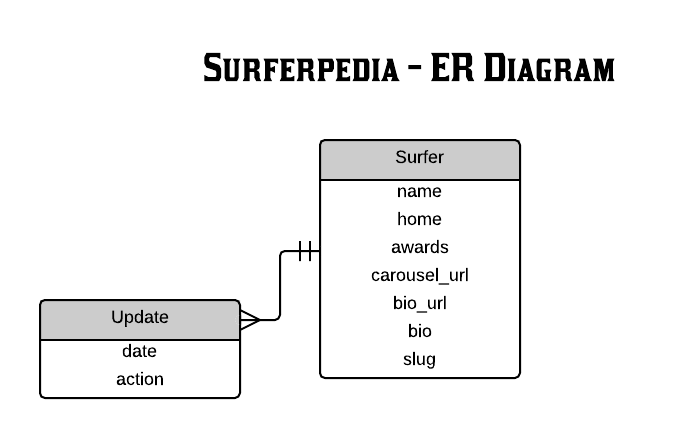
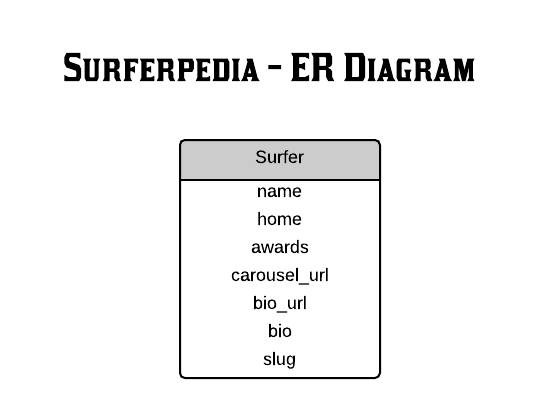
converted to use MySQL DB. Close #3

Changed region(s): [[0.0296, 0.3103, 0.7704, 0.9308], [0.1185, 0.0931, 0.9185, 0.2172], [0.5926, 0.7446, 0.6519, 0.7757]]

diff --git a/app/views/Main.scala.html b/app/views/Main.scala.html
@@ -69,7 +69,6 @@
           </li>
           @if(isLoggedIn) {
           <li class="@("active".when(page == "NewSurfer"))"><a href="@routes.Application.newSurfer()">New Surfer</a></li>
-          <li class="@("active".when(page == "Updates"))"><a href="@routes.Application.getUpdates()">Updates</a></li>
           }
         </ul>
         

diff --git a/app/Global.java b/app/Global.java
@@ -1,5 +1,5 @@
+import models.Surfer;
 import models.SurferDB;
-import models.UpdateDB;
 import models.UserInfoDB;
 import play.Application;
 import play.GlobalSettings;
@@ -8,31 +8,36 @@ import views.formdata.SurferFormData;
 
 /**
  * Provides initialization code for the Surferpedia application.
+ * 
  * @author Dave
- *
+ * 
  */
 public class Global extends GlobalSettings {
-  
+
   /**
    * Initialize the system with some sample contacts.
+   * 
    * @param app The application.
    */
   public void onStart(Application app) {
-    
+
     String adminEmail = Play.application().configuration().getString("admin.email");
-    String adminPassword = Play.application().configuration().getString("admin.password");    
+    String adminPassword = Play.application().configuration().getString("admin.password");
 
     UserInfoDB.addUserInfo(UserInfoDB.ADMIN, adminEmail, adminPassword);
-    
-    if(SurferDB.getSurfers().isEmpty()) {
-      SurferDB.addSurfer(new SurferFormData("adrianodesouza", "Adriano De Souza", "Sau Paulo, Brazil", "Rip Curl Pro Bells Beach (2013), Rip Curl Pro Portugal (2011), Billabong Pro Rio (2011)", "http://tribalpoint.com.br/facecms/uploads/galeria/pj_1304093313.jpg", "http://dawf3zk2mt55y.cloudfront.net/wp-content/uploads/2011/01/Profile-Adriano-Desouza.jpg", "Adriano De Souza rode his first wave at eight years old and eight years later the surf world would take notice of this young, talented surfer at the Billabong ASP World Junior Championships. At the 2004 event, he defeated opponents four years his senior and was named the youngest ASP World Junior Champion ever at 16. Spectators observed his fast, energetic surfing and he quickly became known as one of the most exciting surfers to watch. In 2005, he won the ASP WQS by the widest margin in history. That win took him into his first year on the ASP World Tour where he finished an impressive 18th in the world. Although his style is more conducive to smaller beachbreaks, he is showing his competitors that he can also handle big wave surf, giving his country hope that he has what it takes to transition from a junior champion to something much more. To date, he's one of the most ferocious competitors the sport has ever seen and it shows in the ratings, with consistent top 10 overall finishes since 2008, positioning himself as a serious contender for a world title.", "Male", true, "Regular"));
-      UpdateDB.addUpdate("Create", "Adriano De Souza");
-      
-      SurferDB.addSurfer(new SurferFormData("serenabrooke", "Serena Brooke", "Coolangatta Queensland, Australia", "Billabong Pro Australia, 1995 Women's Rookie of the Year", "http://3.bp.blogspot.com/-ayVU8U4xE_w/T9-cGiDXA3I/AAAAAAAABgo/phpoxj3jlh4/s1600/serenaIndo3.jpg", "http://www.news.saltwater-dreaming.com/modules/xcgal/albums/ASP/serena-brooke.jpg", "Brooke began to compete in amateur competitions in 1990 where she was crowned the Queensland amateur surfing title as well as the Australian National Title. Following her graduation from high school in 1995 she entered the pro ranks and finished her rookie season with a #13 overall ranking on the woman's tour. She was named the 1995 Women's Rookie of the Year. Among her notable accomplishments was winning the Billabong Pro Australia title and achieving a temporary #1 overall ranking in 2001. She would finish with #2 ranking twice on the World Championship Tour (WCT). Serena Brooke is one of the most marketable athletes in woman's surfing having garnered numerous sponsorships including Angel Eyewear and Bud Light. In 2001 she starred in the surfing documentary 7 Girls, and has also starred in numerous surfing videos and occasionally holds surfing camps for children looking to learn how to surf. In 2001, she established the Serena Brooke Charity Foundation. The foundation, which was created in Huntington Beach, California, helps raise money for the Orange County Child Abuse Prevention Center, CSP Youth Centers, Breast Cancer Research, and the Surfrider Foundation among others. The highlight of the year for the foundation is the Serena Brooke Charity Day held in Huntington Beach.", "Female", true, "Goofy"));
-      UpdateDB.addUpdate("Create", "Serena Brooke");
-      
-      SurferDB.addSurfer(new SurferFormData("elliotivarra", "Elliot Ivarra", "Saint Barthelemy", "Quiksilver King of the Groms", "http://farm9.staticflickr.com/8177/8071333879_f8f9567017_b.jpg", "http://static.quiksilver-europe.com/www/quiksilverlive.com/html/upload/kotg2012/riders/__ID-33--5-elliotivarra.jpg", "Elliot Ivarra, 16, was born in Saint Martin, but lives in Saint Barthelemy Island. French surfer Elliot Ivarra won the European final of the Quiksilver King of the Groms in 3 feet fun waves at Ericeira, Portugal. The young french surfer had won his ticket for the Quiskslver King Of the Groms Euro Final thanks to his first place in trials yesterday. This place allowed him to compete in the main event. In Ericeira, the Frenchman ruled this final heat of competition with several backside tricks scoring to fun waves 5.83 pts then a last one 7.43 pts for a final score of 13.50 pts. His domination upon Europe's best 16 and under surfers was unquestionable even if the young French kid Nomme Mignot battled hard for the crown until the very last seconds of the heat. As he was leading the final, Nomme, from Surfing French Team, let Elliot the victory. None the less, both of them will fly to France to take part to the Quiksilver King of the Groms International final to be held during the Quiksilver Pro France - an ASP World Tour event- (From September 27th to October 8th) gathering the world's best surfers on the Landes coast. An extraordinary experience for these two groms.", "Grom", true, "Goofy"));
-      UpdateDB.addUpdate("Create", "Elliot Ivarra");
+
+    if (SurferDB.getSurfers().isEmpty()) {
+      Surfer surfer =
+          SurferDB
+              .addSurfer(new SurferFormData(
+                  "adrianodesouza",
+                  "Adriano De Souza",
+                  "Sau Paulo, Brazil",
+                  "Rip Curl Pro Bells Beach (2013), Rip Curl Pro Portugal (2011), Billabong Pro Rio (2011)",
+                  "http://tribalpoint.com.br/facecms/uploads/galeria/pj_1304093313.jpg",
+                  "http://dawf3zk2mt55y.cloudfront.net/wp-content/uploads/2011/01/Profile-Adriano-Desouza.jpg",
+                  "Adriano De Souza rode his first wave at eight years old and eight years later the surf world would take notice of this young, talented surfer at the Billabong ASP World Junior Championships...",
+                  "Male", true, "Regular"));
     }
   }
 }

diff --git a/app/models/SurferDB.java b/app/models/SurferDB.java
@@ -1,90 +1,84 @@
 package models;
 
-import java.util.ArrayList;
-import java.util.HashMap;
 import java.util.List;
-import java.util.Map;
 import views.formdata.SurferFormData;
 
 /**
  * A simple in-memory repository/database for Surfer data.
+ * 
  * @author Dave
- *
+ * 
  */
 public class SurferDB {
-  
-  private static Map<String, Surfer> surfers = new HashMap<>();
-  
+
   /**
    * Adds or edits a Surfer object to the database.
+   * 
    * @param formData The surfer data.
    * @return The newly created surfer.
    */
   public static Surfer addSurfer(SurferFormData formData) {
-    
-    Surfer surfer = new Surfer(formData.slug, formData.name, formData.home, formData.awards, 
-        formData.carouselImgUrl, formData.bioImgUrl, formData.biography, formData.surferType, formData.isEditable, 
-        formData.footstyleType);
-    
-    surfers.put(formData.slug, surfer);
-    
+
+    Surfer surfer = getSurfer(formData.slug);
+    if (surfer != null) {
+      surfer.setName(formData.name);
+      surfer.setHome(formData.home);
+      surfer.setAwards(formData.awards);
+      surfer.setCarouselImgUrl(formData.carouselImgUrl);
+      surfer.setBioImgUrl(formData.bioImgUrl);
+      surfer.setBiography(formData.biography);
+      surfer.setSurferType(formData.surferType);
+      surfer.setIsEditable(formData.isEditable);
+      surfer.setFootstyleType(formData.footstyleType);
+    }
+    else {
+      surfer =
+          new Surfer(formData.slug, formData.name, formData.home, formData.awards, formData.carouselImgUrl,
+              formData.bioImgUrl, formData.biography, formData.surferType, formData.isEditable, formData.footstyleType);
+    }
+    surfer.save();
+
     return surfer;
   }
-  
+
   /**
    * Checks if Surfer slug already exists.
+   * 
    * @param slug The Surfer slug.
    * @return True if slug exists, False otherwise.
    */
   public static boolean slugExists(String slug) {
-    if (surfers.containsKey(slug)) {
-      return true;
-    }
-    
-    return false;
+    return Surfer.find().where().eq("slug", slug).findUnique() != null;
   }
-  
+
   /**
-   * Returns a Surfer instance associated with the passed slug, or throws a RuntimeException if the slug is not found.
+   * Returns a Surfer instance associated with the passed slug.
+   * 
    * @param slug The slug.
    * @return The retrieved Surfer object.
    */
   public static Surfer getSurfer(String slug) {
-    Surfer surfer = surfers.get(slug);
-    
-    if (surfer == null) {
-      throw new RuntimeException("Passed an invalid slug: " + slug);
-    }
-    else {
-      return surfer;
-    }
+    return Surfer.find().where().eq("slug", slug).findUnique();
   }
-  
+
   /**
    * Returns a list containing all defined surfers.
+   * 
    * @return A list of Surfer objects.
    */
   public static List<Surfer> getSurfers() {
-    return new ArrayList<>(surfers.values());
+    return Surfer.find().all();
   }
-  
+
   /**
-   * Deletes the specified slug from the surfers Map.
-   * @param slug The slug to delete.
+   * Deletes the specified surfer.
+   * 
+   * @param slug The slug associated with the surfer to delete.
    */
   public static void deleteSurfer(String slug) {
-    Surfer surfer = surfers.get(slug);
-    
-    if (surfer == null) {
-      throw new RuntimeException("Passed an invalid slug: " + slug);
-    }
-    else { 
-      //Update event database.
-      UpdateDB.addUpdate("Delete", getSurfer(slug).getName());
-      //Then remove surfer.
-      surfers.remove(slug);
-      
-      
+    Surfer surfer = getSurfer(slug);
+    if (surfer != null) {
+      surfer.delete();
     }
   }
 }

diff --git a/app/controllers/Application.java b/app/controllers/Application.java
@@ -3,7 +3,6 @@ package controllers;
 import java.util.List;
 import java.util.Map;
 import models.SurferDB;
-import models.UpdateDB;
 import play.data.Form;
 import play.mvc.Controller;
 import play.mvc.Result;
@@ -16,7 +15,6 @@ import views.html.Index;
 import views.html.Login;
 import views.html.ManageSurfer;
 import views.html.ShowSurfer;
-import views.html.Updates;
 
 
 /**
@@ -84,14 +82,6 @@ public class Application extends Controller {
     else {
       SurferFormData data = formData.get(); //Creates the object we made (SurferFormData) and fills with get data
       
-      //Create Update event. Note, should consider moving this to SurferDB addSurfer method
-      if (!SurferDB.slugExists(data.slug)) { //If slug does not exist yet in DB, it must be a new event
-        UpdateDB.addUpdate("Create", data.name);
-      }
-      else {
-        UpdateDB.addUpdate("Edit", data.name);
-      }
-      
       //Add to database
       SurferDB.addSurfer(data);
       
@@ -122,15 +112,6 @@ public class Application extends Controller {
     //Note, UpdateDB delete event is done in SurferDB.deleteSurfer() method. Could also move that code here...
     
     return ok(Index.render("Home", Secured.isLoggedIn(ctx()), Secured.getUserInfo(ctx()), SurferDB.getSurfers()));
-  }
-  
-  /**
-   * Returns the updates page.
-   * @return The updates page.
-   */
-  @Security.Authenticated(Secured.class)
-  public static Result getUpdates() {
-    return ok(Updates.render("Updates", Secured.isLoggedIn(ctx()), Secured.getUserInfo(ctx()), UpdateDB.getUpdates(), SurferDB.getSurfers()));
   }
   
   

diff --git a/app/models/Surfer.java b/app/models/Surfer.java
@@ -1,7 +1,10 @@
 package models;
 
+import java.util.ArrayList;
+import java.util.List;
 import javax.persistence.Entity;
 import javax.persistence.Id;
+import javax.persistence.OneToMany;
 import play.db.ebean.Model;
 
 /**
@@ -37,7 +40,6 @@ public class Surfer extends Model {
   private Boolean isEditable = false;
   private String footstyleType; //Regular or Goofy
   
-  
   /**
    * Creates a new Surfer.
    * 
@@ -66,7 +68,6 @@ public class Surfer extends Model {
     this.isEditable = isEditable;
     this.footstyleType = footstyleType;
   }
-  
   
   /**
    * @return the slug
@@ -191,6 +192,4 @@ public class Surfer extends Model {
   public void setFootstyleType(String footstyleType) {
     this.footstyleType = footstyleType;
   }
-  
-  
 }

diff --git a/README.md b/README.md
@@ -18,6 +18,11 @@ Download the zip file, unzip, cd into the directory, invoke the Play console, an
 
 You need to setup the admin credentials in your environment variables. The variables are `SURFERPEDIA_ADMIN_EMAIL` and `SURFERPEDIA_ADMIN_PASSWORD`.
 
+You need to setup a database to use with the application. You can install MySQL from the [website](http://dev.mysql.com/downloads/mysql/) and setup the following environment variables:
+- SURFERPEDIA_DB_URL
+- SURFERPEDIA_DB_USER
+- SURFERPEDIA_DB_PASS
+
 Usage
 -----
 
